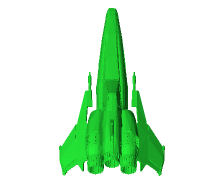
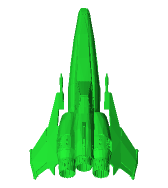
feat(viper): 1.3, a ship of its own without a base
OpenReliant now lets a mod's ship type leave out its base
(OpenReliant/openreliant#714), so the Viper no longer poses as a
Mirage. It names its own class, access and crew for the loadout, keeps
the Mirage's cockpit, and carries no blind fire. Its gunnery wire frame
and schematic are drawn again for the Predator's frames, which a ship
type without a base is drawn over, so they keep their proportions.

Changed region(s): [[0.1786, 0.0272, 0.8333, 0.9783]]

diff --git a/sources/viper/hud.py b/sources/viper/hud.py
@@ -78,29 +78,33 @@ def shade(i, light=(0.35,0.75,-0.55)):
     n=N[i]; l=math.sqrt(sum(t*t for t in light)); L=[t/l for t in light]
     return abs(sum(n[k]*L[k] for k in range(3)))
 
-# Mirage's frames: shape 0 of the schematic 56x46 at (7,2); quadrants left 25x16 at (7,23), right
-# 27x20 at (36,21), fore 12x21 at (30,2), aft 43x22 at (11,26). The pictures are four times as
-# large, rendered at twice that and filtered down.
+# The Predator's frames (PREDSCEM.SPR), the template of a ship type without a base: shape 0 of
+# the schematic 42x47 at (14,1); quadrants left 15x20 at (17,15), right 20x28 at (36,11), fore
+# 36x22 at (20,1), aft 39x21 at (14,27). The pictures are four times as large, rendered at twice
+# that and filtered down.
 UP=4; SS=2; K=UP*SS
+FRAME=(14,1,42,47)
+QUADRANTS=[('left',(17,15,15,20)),('right',(36,11,20,28)),('fore',(20,1,36,22)),('aft',(14,27,39,21))]
 def schematic():
-    W,H=56*K,46*K
+    fx,fy,fw,fh=FRAME
+    W,H=fw*K,fh*K
     S=fit(project(58),W,H,2*K)
     def green(i):
         t=0.25+0.75*shade(i)
         return (int(40*t),int(255*t),int(60*t),255)
     Z,C=raster(S,W,H,green)
     save(C,W,H,'viperscem_000.png',SS)
-    for number,(q,(rx,ry,rw,rh)) in enumerate([('left',(7,23,25,16)),('right',(36,21,27,20)),('fore',(30,2,12,21)),('aft',(11,26,43,22))],1):
+    for number,(q,(rx,ry,rw,rh)) in enumerate(QUADRANTS,1):
         def hit(i):
             t=0.55+0.45*shade(i)
             return (255,int(150*t),int(60*t),255)
         Z,C=raster(S,W,H,hit,keep=lambda i,q=q: Q[i]==q)
-        x0,y0=(rx-7)*K,(ry-2)*K
+        x0,y0=(rx-fx)*K,(ry-fy)*K
         crop=[[ (C[y][x] if 0<=y<H and 0<=x<W else None) for x in range(x0,x0+rw*K)] for y in range(y0,y0+rh*K)]
         save(crop,rw*K,rh*K,f'viperscem_{number:03d}.png',SS)
 
 def icon():
-    # Mirage's wing icon, 34x38: brackets round the ship in orange.
+    # The wing icon, 34x38 for every fighter: brackets round the ship in orange.
     W,H=34*K,38*K
     S=fit(project(58),W,H,5*K)
     def tan(i):
@@ -116,8 +120,9 @@ def icon():
     save(C,W,H,'vipericon_000.png',SS)
 
 def wire():
-    # Mirage's gunnery wire frame, 100x107: the hull's feature edges, red, the hidden ones dim.
-    W,H=100*K,107*K
+    # The gunnery wire frame in the Predator's rectangle, 92x108, which a ship type without a base
+    # is drawn over: the hull's feature edges, red, the hidden ones dim.
+    W,H=92*K,108*K
     S=fit(project(58),W,H,4*K)
     Z,_=raster(S,W,H,lambda i:(0,0,0,255))
     edges={}
